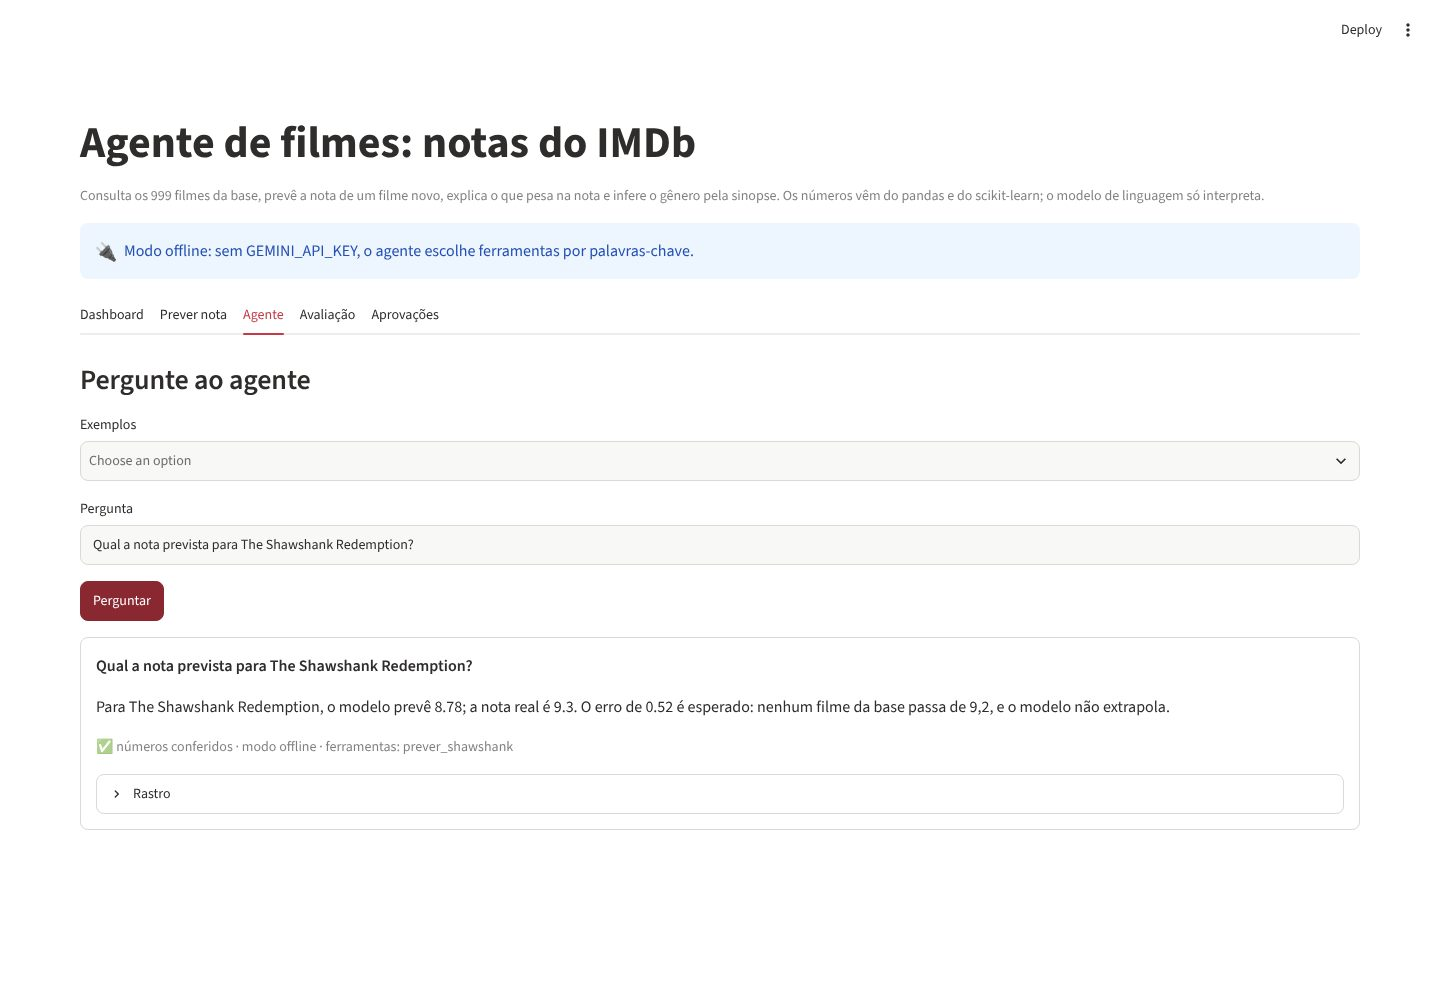
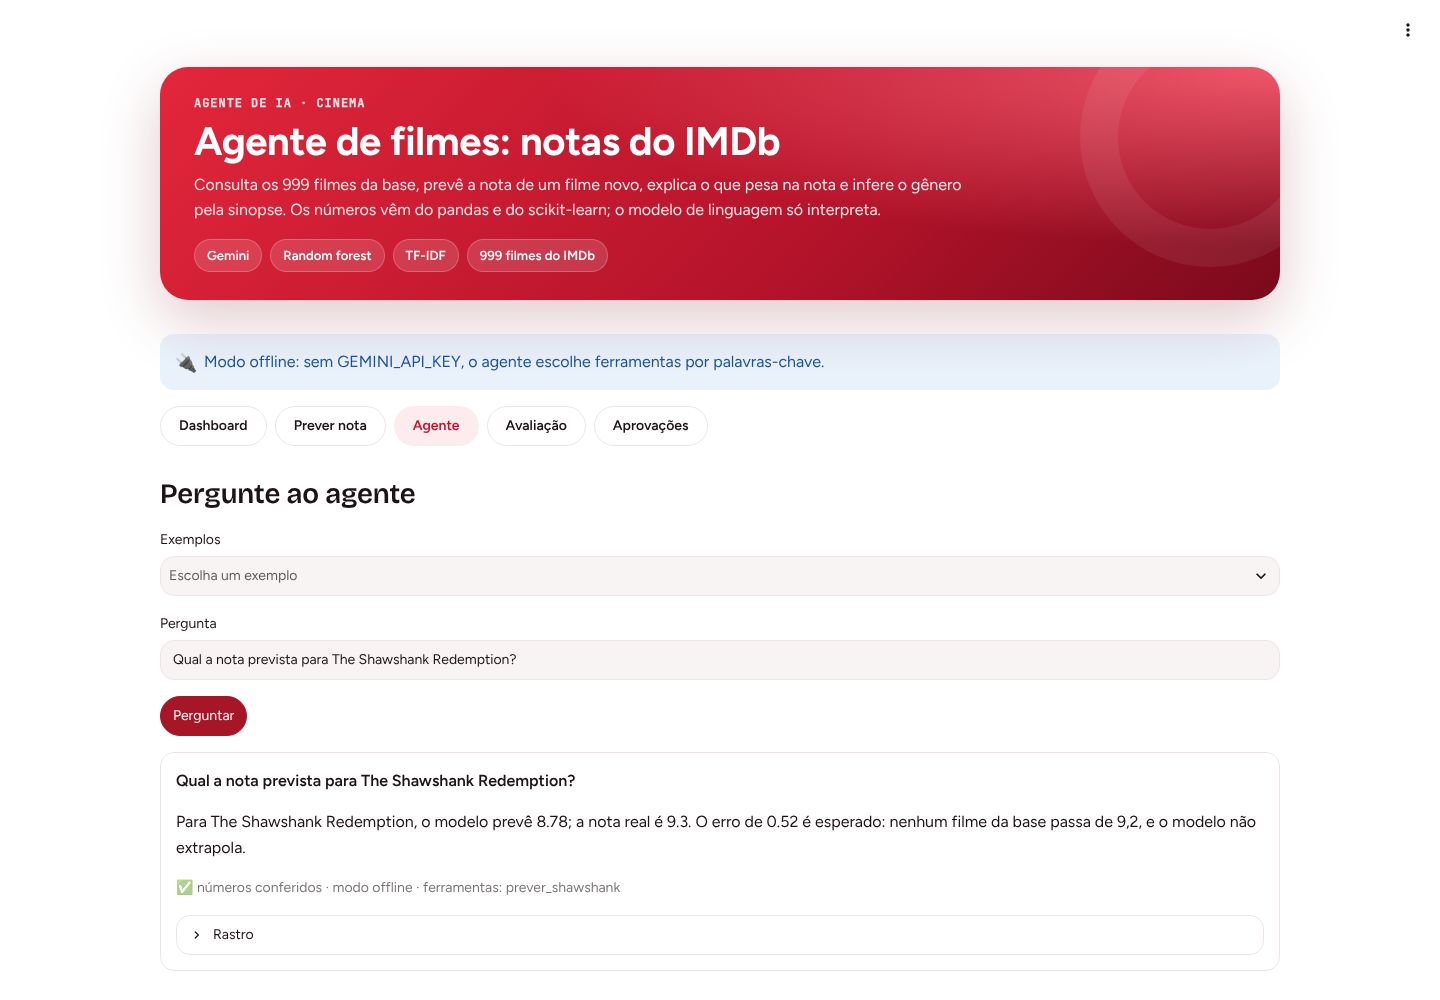
Dashboard com a identidade visual do portfólio
- .streamlit/config.toml: tema claro e escuro (vermelho #E3263B, Figtree e Bricolage Grotesque) e paletas de gráfico validadas para daltonismo
- app/tema.py: cabeçalho, cards de KPI, abas em pílula, selos de status com ícone e cores dos gráficos pela paleta
- capturas do README refeitas; streamlit>=1.51 (seções [theme.light] e [theme.dark])

Claude-Session: https://claude.ai/code/session_01WR8CaPDQRav6xXD6FyLt9e

diff --git a/app/tema.py b/app/tema.py
@@ -1,0 +1,142 @@
+"""Identidade visual compartilhada pelos dashboards: a mesma do portfólio (henriquecm02.github.io).
+
+Cores, fontes e raios ficam em `.streamlit/config.toml` (modo claro e escuro). Este módulo só acrescenta o que o tema
+do Streamlit não cobre: o cabeçalho, os cards de KPI, as abas em pílula e cores para traços com cor explícita.
+Copiado de forma idêntica em cada repositório, como o agentcore.py.
+"""
+from __future__ import annotations
+
+import html
+
+import streamlit as st
+
+# Mesma ordem das paletas do config.toml (validadas para daltonismo). Cor segue a entidade, nunca a posição.
+PALETA = {"claro": ["#E3263B", "#2a78d6", "#eda100", "#1baf7a", "#6250d6"],
+          "escuro": ["#E8455A", "#3987e5", "#c98500", "#199e70", "#9085e9"]}
+NEUTRO = {"claro": "#9A8A8D", "escuro": "#8C7E80"}  # série de referência: histórico, linha de base
+# Escala sequencial (magnitude): um só tom, do claro ao escuro (no modo escuro, do escuro ao claro).
+SEQUENCIAL = {"claro": ["#FDECEE", "#F6B3BC", "#EC6A7B", "#E3263B", "#B3132A", "#7A0A1B"],
+              "escuro": ["#3A1218", "#7A0A1B", "#B3132A", "#E3263B", "#EC6A7B", "#F6B3BC"]}
+STATUS = {"ok": ("#157347", "✅"), "atencao": ("#8A5200", "⚠"), "critico": ("#C8102E", "⛔")}
+
+
+def modo() -> str:
+    try:
+        return "escuro" if st.context.theme.type == "dark" else "claro"
+    except Exception:  # noqa: BLE001 - fora de uma sessão (testes, scripts) não há tema
+        return "claro"
+
+
+def cor(i: int) -> str:
+    """Cor categórica do slot i (0 = vermelho da marca)."""
+    return PALETA[modo()][i]
+
+
+def cores(n: int) -> list[str]:
+    """As n primeiras cores categóricas, na ordem fixa. Mais de 5 séries: agrupar em "Outros" ou separar."""
+    if n > len(PALETA["claro"]):
+        raise ValueError("Mais de 5 séries: agrupe em 'Outros' ou use pequenos múltiplos.")
+    return PALETA[modo()][:n]
+
+
+def sequencial() -> list[str]:
+    return SEQUENCIAL[modo()]
+
+
+def neutro() -> str:
+    return NEUTRO[modo()]
+
+
+def texto_secundario() -> str:
+    """Cor de rótulos de valor dentro de gráficos: texto, nunca a cor da série."""
+    return "#B9ACAE" if modo() == "escuro" else "#6B5C5F"
+
+
+def rgba(hex_: str, alpha: float) -> str:
+    h = hex_.lstrip("#")
+    return f"rgba({int(h[0:2], 16)},{int(h[2:4], 16)},{int(h[4:6], 16)},{alpha})"
+
+
+def selo(nivel: str, texto: str) -> str:
+    """Selo de status em HTML: sempre ícone + texto, nunca só a cor."""
+    c, icone = STATUS[nivel]
+    return (f'<span class="hc-selo" style="--c:{c}">{icone} {html.escape(texto)}</span>')
+
+
+_CSS = """
+<style>
+.block-container, [data-testid="stMainBlockContainer"] { padding-top: 4.2rem; max-width: 1280px; }
+[data-testid="stHeader"] { background: transparent; }
+h1, h2, h3 { letter-spacing: -0.01em; }
+.hc-hero { position: relative; overflow: hidden; border-radius: 28px; padding: 30px 34px 28px;
+  margin: 0 0 18px;
+  color: #fff; background: radial-gradient(120% 140% at 100% 0%, #F0566A 0%, rgba(240,86,106,0) 55%),
+  linear-gradient(135deg, #E3263B 0%, #B3132A 62%, #7A0A1B 100%);
+  box-shadow: 0 20px 60px rgba(122,10,27,.22); }
+.hc-hero::after { content: ""; position: absolute; right: -60px; top: -60px; width: 260px; height: 260px;
+  border-radius: 50%;
+  border: 38px solid rgba(255,255,255,.07); }
+.hc-hero .k { font: 700 12px/1 var(--hc-mono, "JetBrains Mono", monospace); letter-spacing: .08em;
+  text-transform: uppercase;
+  opacity: .85; margin-bottom: 10px; }
+.hc-hero h1 { color: #fff !important; font-size: clamp(1.7rem, 3.2vw, 2.5rem); line-height: 1.1;
+  margin: 0 0 10px; padding: 0; }
+.hc-hero p { color: rgba(255,255,255,.9); max-width: 780px; margin: 0; font-size: 1rem; line-height: 1.55; }
+.hc-hero .chips { display: flex; flex-wrap: wrap; gap: 8px; margin-top: 16px; }
+.hc-hero .chips span { background: rgba(255,255,255,.14); border: 1px solid rgba(255,255,255,.22);
+  border-radius: 999px;
+  padding: 5px 12px; font-size: .82rem; font-weight: 600; }
+[data-testid="stMetric"] { background: var(--hc-surface); border: 1px solid var(--hc-line);
+  border-radius: 20px;
+  padding: 16px 18px; min-height: 118px;
+  box-shadow: 0 1px 2px rgba(60,10,20,.05), 0 6px 18px rgba(60,10,20,.06); }
+[data-testid="stMetricLabel"] p { font-weight: 600; color: var(--hc-muted); }
+[data-testid="stMetricValue"] { font-weight: 700; letter-spacing: -0.02em; }
+[data-testid="stMetricDelta"] { max-width: 100%; border-radius: 10px !important; height: auto !important; }
+[data-testid="stMetricDelta"] p { white-space: normal !important; overflow: visible !important; }
+[role="tablist"] { gap: 8px; flex-wrap: wrap; border: 0 !important; box-shadow: none !important;
+  padding-bottom: 4px; }
+[role="tablist"]::after, [role="tablist"]::before { display: none !important; }
+[data-baseweb="tab-highlight"], [data-baseweb="tab-border"], .react-aria-SelectionIndicator { display: none
+  !important; }
+[role="tab"] { border-radius: 999px !important; padding: 8px 18px !important;
+  border: 1px solid var(--hc-line) !important;
+  background: var(--hc-surface) !important; height: auto !important;
+  transition: background .15s, border-color .15s; }
+[role="tab"]:hover { border-color: var(--hc-red) !important; }
+[role="tab"] p { font-weight: 600; margin: 0; }
+[role="tab"][aria-selected="true"] { background: var(--hc-soft) !important;
+  border-color: transparent !important; }
+[role="tab"][aria-selected="true"] p { color: var(--hc-red); }
+[data-testid="stVerticalBlockBorderWrapper"]:has(> div > [data-testid="stVerticalBlock"]) { border-radius:
+  20px; }
+[data-testid="stAlert"] { border-radius: 16px; }
+.hc-selo { display: inline-flex; align-items: center; gap: 6px; padding: 3px 10px; border-radius: 999px;
+  font-weight: 600;
+  font-size: .85rem; color: var(--c); background: color-mix(in srgb, var(--c) 12%, transparent); }
+.hc-nota { color: var(--hc-muted); font-size: .9rem; }
+</style>
+"""
+_TOKENS = {
+    "claro": "--hc-surface:#FFFFFF;--hc-line:#EEE4E5;--hc-muted:#6B5C5F;--hc-soft:#FDECEE;--hc-red:#C8102E;",
+    "escuro": "--hc-surface:#1F191A;--hc-line:#3A2F31;--hc-muted:#B9ACAE;--hc-soft:#3A1218;--hc-red:#F08E9B;",
+}
+
+
+def aplicar_tema(titulo: str, subtitulo: str, kicker: str = "", chips: list[str] | None = None) -> None:
+    """Injeta o CSS do portfólio e desenha o cabeçalho. Chamar logo depois de st.set_page_config."""
+    st.html(f"<style>:root{{{_TOKENS[modo()]}}}</style>" + _CSS)
+    chips_html = "".join(f"<span>{html.escape(c)}</span>" for c in chips or [])
+    st.html(f'<div class="hc-hero">{f"<div class=k>{html.escape(kicker)}</div>" if kicker else ""}'
+            f"<h1>{html.escape(titulo)}</h1><p>{html.escape(subtitulo)}</p>"
+            f'{f"<div class=chips>{chips_html}</div>" if chips_html else ""}</div>')
+
+
+def estilo_plotly(fig, altura: int | None = None, **layout):
+    """Acabamento comum dos gráficos Plotly: legenda no topo, hover unificado, margens enxutas."""
+    fig.update_layout(margin={"l": 8, "r": 8, "t": 36, "b": 8},
+                      legend={"orientation": "h", "yanchor": "bottom", "y": 1.02, "x": 0, "title_text": ""},
+                      hoverlabel={"font_family": "Figtree"}, **({"height": altura} if altura else {}), **layout)
+    fig.update_xaxes(showgrid=False)
+    fig.update_yaxes(zeroline=False)
+    return fig

diff --git a/app/streamlit_app.py b/app/streamlit_app.py
@@ -8,6 +8,7 @@ from pathlib import Path
 import pandas as pd
 import plotly.express as px
 import streamlit as st
+import tema
 
 ROOT = Path(__file__).resolve().parents[1]
 sys.path.insert(0, str(ROOT / "src"))
@@ -15,7 +16,6 @@ sys.path.insert(0, str(ROOT / "src"))
 from filmeagent import core as C  # noqa: E402
 from filmeagent.tools import build_agent, t_prever  # noqa: E402
 
-RED, GREY = "#E3263B", "#9A8A8D"
 st.set_page_config(page_title="Filmes IMDb · agente", page_icon="🎬", layout="wide")
 
 
@@ -31,9 +31,12 @@ agent = get_agent()
 st.session_state.setdefault("pending", [])
 st.session_state.setdefault("log", [])
 
-st.title("Agente de filmes: notas do IMDb")
-st.caption("Consulta os 999 filmes da base, prevê a nota de um filme novo, explica o que pesa na nota e infere o gênero pela sinopse. "
-           "Os números vêm do pandas e do scikit-learn; o modelo de linguagem só interpreta.")
+tema.aplicar_tema(
+    "Agente de filmes: notas do IMDb",
+    "Consulta os 999 filmes da base, prevê a nota de um filme novo, explica o que pesa na nota e infere o gênero pela "
+    "sinopse. Os números vêm do pandas e do scikit-learn; o modelo de linguagem só interpreta.",
+    kicker="Agente de IA · cinema",
+    chips=["Gemini", "Random forest", "TF-IDF", "999 filmes do IMDb"])
 if agent.llm is None:
     st.info("Modo offline: sem GEMINI_API_KEY, o agente escolhe ferramentas por palavras-chave.", icon="🔌")
 
@@ -52,17 +55,17 @@ with tab_dash:
     with c1:
         st.subheader("Nota × número de votos")
         fig = px.scatter(df, x="No_of_Votes", y="IMDB_Rating", log_x=True, hover_name="Series_Title", opacity=0.55,
-                         color_discrete_sequence=[RED], labels={"No_of_Votes": "votos (escala log)", "IMDB_Rating": "nota"})
+                         color_discrete_sequence=[tema.cor(0)], labels={"No_of_Votes": "votos (escala log)", "IMDB_Rating": "nota"})
         fig.update_layout(height=360, margin={"l": 10, "r": 10, "t": 10, "b": 10})
-        st.plotly_chart(fig, use_container_width=True)
+        st.plotly_chart(tema.estilo_plotly(fig), use_container_width=True)
     with c2:
         st.subheader("Gêneros: quantidade e nota média")
         g = df.explode("generos").groupby("generos").agg(filmes=("Series_Title", "count"), nota=("IMDB_Rating", "mean"))
         g = g[g["filmes"] >= 15].sort_values("filmes")
-        fig2 = px.bar(g.reset_index(), x="filmes", y="generos", orientation="h", color="nota", color_continuous_scale=["#F4C7CD", RED],
+        fig2 = px.bar(g.reset_index(), x="filmes", y="generos", orientation="h", color="nota", color_continuous_scale=tema.sequencial(),
                       labels={"generos": "", "filmes": "filmes", "nota": "nota média"})
         fig2.update_layout(height=360, margin={"l": 10, "r": 10, "t": 10, "b": 10})
-        st.plotly_chart(fig2, use_container_width=True)
+        st.plotly_chart(tema.estilo_plotly(fig2), use_container_width=True)
     c3, c4 = st.columns(2)
     with c3:
         st.subheader("Modelos (validação cruzada de 5 dobras)")
@@ -70,10 +73,10 @@ with tab_dash:
     with c4:
         st.subheader("O que pesa na nota")
         imp = pd.DataFrame(C.importance())
-        fig3 = px.bar(imp.sort_values("aumento_rmse"), x="aumento_rmse", y="variavel", orientation="h", color_discrete_sequence=[RED],
+        fig3 = px.bar(imp.sort_values("aumento_rmse"), x="aumento_rmse", y="variavel", orientation="h", color_discrete_sequence=[tema.cor(0)],
                       labels={"aumento_rmse": "aumento do RMSE ao embaralhar", "variavel": ""})
         fig3.update_layout(height=280, margin={"l": 10, "r": 10, "t": 10, "b": 10})
-        st.plotly_chart(fig3, use_container_width=True)
+        st.plotly_chart(tema.estilo_plotly(fig3), use_container_width=True)
 
 with tab_pred:
     st.subheader("Prever a nota de um filme novo")
@@ -92,7 +95,7 @@ with tab_agent:
     st.subheader("Pergunte ao agente")
     ex = st.selectbox("Exemplos", ["", "Quais os filmes do Nolan?", "Qual a nota prevista para The Shawshank Redemption?",
                                    "O que mais pesa na nota de um filme?", "Me recomende um filme de comédia de até 100 min",
-                                   "Quais fatores se relacionam com faturamento alto?"])
+                                   "Quais fatores se relacionam com faturamento alto?"], placeholder="Escolha um exemplo")
     q = st.text_input("Pergunta", value=ex)
     if st.button("Perguntar", type="primary") and q.strip():
         r = agent.run(q)

diff --git a/tests/test_app.py b/tests/test_app.py
@@ -1,0 +1,12 @@
+"""O dashboard sobe sem erro (Streamlit AppTest, sem rede)."""
+from pathlib import Path
+
+from streamlit.testing.v1 import AppTest
+
+APP = Path(__file__).resolve().parents[1] / "app" / "streamlit_app.py"
+
+
+def test_dashboard_renderiza_sem_erro():
+    at = AppTest.from_file(str(APP), default_timeout=180).run()
+    assert not at.exception, at.exception
+    assert len(at.metric) >= 1
